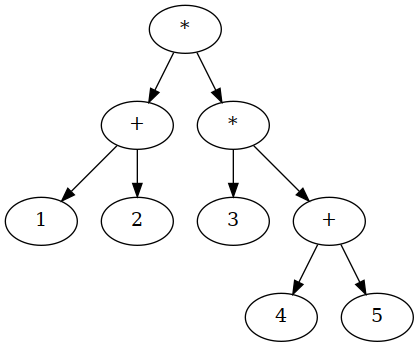
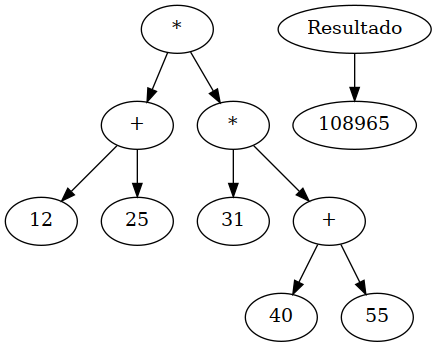
Cleaned code

diff --git a/Lab3 - SyntaxTree/Arbol.h b/Lab3 - SyntaxTree/Arbol.h
@@ -22,7 +22,6 @@ private:
     Nodo* root;
     list<Nodo*> pila;
 public:
-    Arbol(string exp);
     Arbol(list<string>);
     void showStack();
     void showR(Nodo*, int);
@@ -33,19 +32,6 @@ public:
     ~Arbol();
 };
 
-Arbol::Arbol(string exp)
-{
-
-}
-
-void Arbol::showStack(){
-    cout<<"Stack: | ";
-    for(auto& i: this->pila){
-        i->getRawValue();
-        cout<<" | ";
-    }
-    cout<<endl;
-}
 
 Arbol::Arbol(list<string> post){
     int v;
@@ -75,10 +61,17 @@ Arbol::Arbol(list<string> post){
     else{
         cout<<"There's some error."<<endl;
         cout<<"Arbol"<<endl;
-        this->showR(pila.front(),0);
-        this->pila.clear();
     }
-    
+    cout<<endl;
+}
+
+void Arbol::showStack(){
+    cout<<"Stack: | ";
+    for(auto& i: this->pila){
+        i->getRawValue();
+        cout<<" | ";
+    }
+    cout<<endl;
 }
 
 void Arbol::showR(Nodo* r, int i){
@@ -100,8 +93,8 @@ void Arbol::show(){
 void Arbol::generateDot(string& res, Nodo* t){
     if (!t) return;
 
-    if (t->izq) res = res +  to_string(t->id) + " -> " + to_string(t->izq->id) + "; \n";
-    if (t->der) res = res +  to_string(t->id) + " -> " + to_string(t->der->id) + "; \n";
+    if (t->izq) res = res +  t->id + " -> " + t->izq->id + "; \n";
+    if (t->der) res = res +  t->id + " -> " + t->der->id + "; \n";
     generateDot(res,  t->izq);
     generateDot(res,  t->der);   
 }
@@ -109,7 +102,7 @@ void Arbol::generateDot(string& res, Nodo* t){
 void Arbol::setIDs(Nodo* t, int& i,string& res){
     if (!t) return;
     t->id = i;
-    res = res + to_string(i) + " [ label = \"" + t->getStrValue() + "\" ]; \n";
+    res = res + i + " [ label = \"" + t->getStrValue() + "\" ]; \n";
     i = i + 1;
     setIDs(t->izq,i, res);
     setIDs(t->der,i, res);
@@ -121,6 +114,8 @@ string Arbol::getDot(){
     int i = 0;
     this->setIDs(this->root, i, res);
     this->generateDot(res, this->root);
+
+    res = res + "Resultado -> " + this->root->getValue() + "; \n";
     res = res + "}";
     return res;
 }

diff --git a/Lab3 - SyntaxTree/main.cpp b/Lab3 - SyntaxTree/main.cpp
@@ -1,13 +1,16 @@
 #include <iostream>
 using namespace std;
 #include "Arbol.h"
+
+
 int main(int argc, char const *argv[])
 {
-    list<string> post = {"1","2","+","3","4","5","+","*","*"};
+    list<string> post = {"12","25","+","31","40","55","+","*","*"};
+
 
     Arbol c(post);
-//    c.show();
-
     cout<<c.getDot()<<endl;
+
+
     return 0;
 }

diff --git a/Lab3 - SyntaxTree/Nodo.h b/Lab3 - SyntaxTree/Nodo.h
@@ -4,6 +4,10 @@
 #include <iostream>
 using namespace std;
 
+// Append int to string
+string operator+(const string& a, const int& b) { //outside the class
+    return a + to_string(b);
+}
 
 class Nodo
 {
